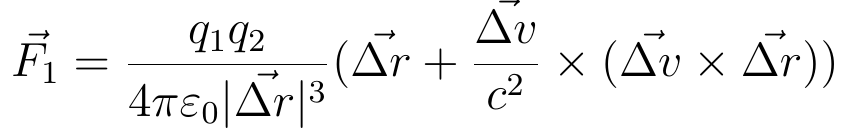
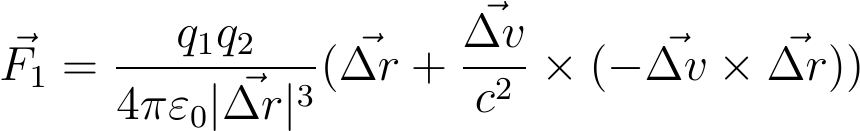
corrected pre sign in new Lorentz formula

diff --git a/doc/20170112-unified-lorentzforce-and-magnetism-paper/kechel_unified_magnetism_and_lorentz_force_V3.tex b/doc/20170112-unified-lorentzforce-and-magnetism-paper/kechel_unified_magnetism_and_lorentz_force_V3.tex
@@ -23,7 +23,7 @@
 	\normalsize 
   Dipl. Inf. Jan Kechel, Dipl. Ing. Ottmar Kechel\\
 	\vspace{6mm}
-	18. September 2015 with some small updates 13. January 2017\\
+	18. September 2015 with some small updates 16. January 2017\\
 	\vspace{6mm}
     http://theory.kechel.de
 \end{center}
@@ -114,11 +114,11 @@ It has to be noted, that there is no difference in the axis or preferred rotatio
 
 The total force $\vec{F_1}$ on a particle 1 which has a relative speed $\vec{\Delta v}$ and a distance $\vec{\Delta r}$ to particle 2 can be defined as 
 
-$$\vec{F_1}= \frac{q_1 q_2}{4\pi\varepsilon_0 \vert \vec{\Delta r} \vert^3} ( \vec{\Delta r} + \frac{\vec{\Delta v}}{c^2} \times (\vec{\Delta v} \times \vec{\Delta r}))$$
+$$\vec{F_1}= \frac{q_1 q_2}{4\pi\varepsilon_0 \vert \vec{\Delta r} \vert^3} ( \vec{\Delta r} + \frac{\vec{\Delta v}}{c^2} \times (-\vec{\Delta v} \times \vec{\Delta r}))$$
 
 Accordingly the total force on one particle $q_1$ can be defined as sum of the forces with all other relatively moved charged particles $q_2 .. q_n$ as 
 
-$$\vec{F_1}= \sum_{n=2}^{\infty} \frac{q_1 q_n}{4\pi\varepsilon_0 \vert \vec{\Delta r} \vert^3} ( \vec{\Delta r} + \frac{\vec{\Delta v}}{c^2} \times (\vec{\Delta v} \times \vec{\Delta r}))$$
+$$\vec{F_1}= \sum_{n=2}^{\infty} \frac{q_1 q_n}{4\pi\varepsilon_0 \vert \vec{\Delta r} \vert^3} ( \vec{\Delta r} + \frac{\vec{\Delta v}}{c^2} \times (-\vec{\Delta v} \times \vec{\Delta r}))$$
 
 where
 
@@ -152,6 +152,17 @@ We can not (yet) be sure that in magnets electrons really fly around one nucleus
 The new formulas in section 7 were clarified 
 \subsection{2017-01-13}
 The last two subitems in the Conclusions section where reformulated and corrected (The two charges cross.. / The vector of the momentary .. )
+\subsection{2017-01-16}
+Corrected pre sign in new Lorentz formula
+
+wrong was: 
+
+$$\vec{F_1}= \frac{q_1 q_2}{4\pi\varepsilon_0 \vert \vec{\Delta r} \vert^3} ( \vec{\Delta r} + \frac{\vec{\Delta v}}{c^2} \times (\vec{\Delta v} \times \vec{\Delta r}))$$
+
+now corrected to: 
+
+$$\vec{F_1}= \frac{q_1 q_2}{4\pi\varepsilon_0 \vert \vec{\Delta r} \vert^3} ( \vec{\Delta r} + \frac{\vec{\Delta v}}{c^2} \times (-\vec{\Delta v} \times \vec{\Delta r}))$$
+
 \end{document}
 
 %
